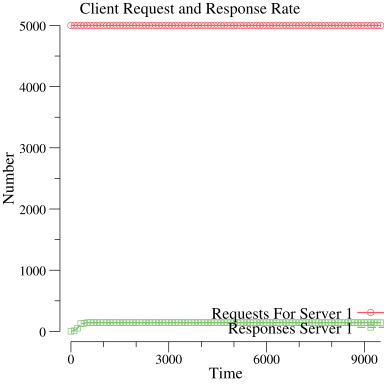
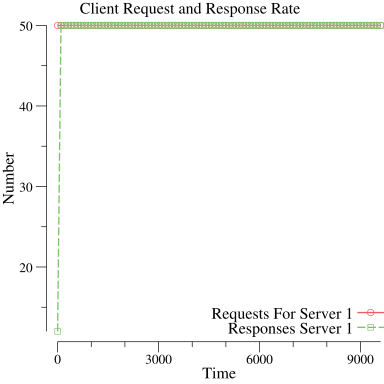
Fixed Server for serving on 9100 port

diff --git a/server.js b/server.js
@@ -1,5 +1,5 @@
 var http=require('http');
-var ports = [9000];
+var ports = [9000,9100];
 
 for(var i = 1; i < 12; i++) {
  ports.push(9000+i)

diff --git a/client.go b/client.go
@@ -145,10 +145,10 @@ func counter_poller(number int){
             reply_recv_per_time_server1 = append(reply_recv_per_time_server1, reply_server1)
             reply_recv_per_time_server2 = append(reply_recv_per_time_server2, reply_server2)
 
-            fmt.Println("Req to Server1", req_sent_per_time_server1)
+            /*fmt.Println("Req to Server1", req_sent_per_time_server1)
             fmt.Println("Req to Server2", req_sent_per_time_server2)
             fmt.Println("Reply from Server1", reply_recv_per_time_server1)
-            fmt.Println("Reply from Server2", reply_recv_per_time_server2)
+            fmt.Println("Reply from Server2", reply_recv_per_time_server2)*/
 
         }
         
